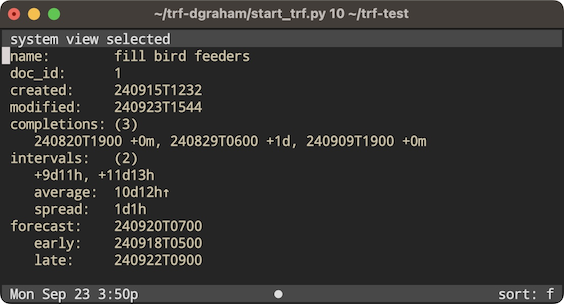
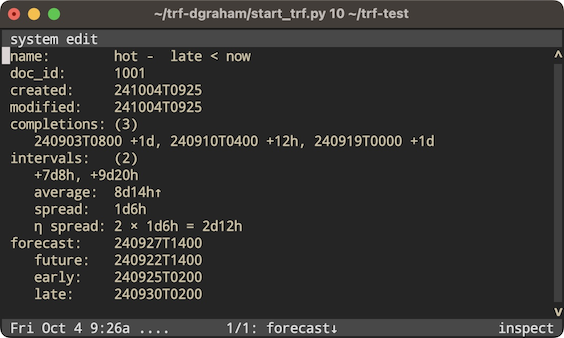
README tweaks. Streamlined style. Added details to inspect view regarding forecast and the related periods. Added illustrative_trakcers.

Changed region(s): [[0.0, 0.0, 1.0, 1.0], [0.9947, 0.0, 1.0, 0.0296]]

diff --git a/trf/trf.py b/trf/trf.py
@@ -186,13 +186,25 @@ settings_map = CommentedMap({
     'ampm': True,
     'yearfirst': True,
     'dayfirst': False,
-    'η': 2
+    'η': 2,
 })
 # Add comments to the dictionary
-settings_map.yaml_set_comment_before_after_key('ampm', before='Track Settings\n\n[ampm] Display 12-hour times with AM or PM if true, \notherwise display 24-hour times')
-settings_map.yaml_set_comment_before_after_key('yearfirst', before='\n[yearfirst] When parsing ambiguous dates, assume the year is first if true, \notherwise assume the month is first')
-settings_map.yaml_set_comment_before_after_key('dayfirst', before='\n[dayfirst] When parsing ambiguous dates, assume the day is first if true, \notherwise assume the month is first')
-settings_map.yaml_set_comment_before_after_key('η', before='\n[η] Use this integer multiple of "spread" for setting the early-to-late \nforecast confidence interval')
+settings_map.yaml_set_comment_before_after_key(
+    'ampm',
+    before='trf settings\n\n[ampm] Display 12-hour times with AM or PM if true, \notherwise display 24-hour times'
+    )
+settings_map.yaml_set_comment_before_after_key(
+    'yearfirst',
+    before='\n[yearfirst] When parsing ambiguous dates, assume the year is first \nif true, otherwise assume the month is first'
+    )
+settings_map.yaml_set_comment_before_after_key(
+    'dayfirst',
+    before='\n[dayfirst] When parsing ambiguous dates, assume the day is first \nif true, otherwise assume the month is first'
+    )
+settings_map.yaml_set_comment_before_after_key(
+    'η',
+    before='\n[η] Use this integer multiple of "spread" for setting the \nearly-to-late forecast confidence interval'
+    )
 
 
 # this will be set in main() as a global variable
@@ -549,14 +561,15 @@ class Tracker(Persistent):
                     else:
                         total += interval - result['average_interval']
                 result['spread'] = total / result['num_intervals']
+                result['n_spread'] = f"{tracker_manager.settings['η']} × {Tracker.format_td(result['spread'], True)} = {Tracker.format_td(tracker_manager.settings['η']*result['spread'], True)}"
             if result['num_intervals'] >= 1:
-                result['future'] = result['next_expected_completion'] - (tracker_manager.settings['η']*2) * result['spread']
+                result['future']  = result['next_expected_completion'] - (tracker_manager.settings['η']*2) * result['spread']
                 result['early'] = result['next_expected_completion'] - tracker_manager.settings['η'] * result['spread']
                 result['late'] = result['next_expected_completion'] + tracker_manager.settings['η'] * result['spread']
 
         self._info = result
         self._p_changed = True
-        # logger.debug(f"returning {result = }")
+        logger.debug(f"returning {result = }")
 
         return result
 
@@ -697,10 +710,11 @@ class Tracker(Persistent):
     {intervals}
     average:  {self._info['avg']}
     spread:   {Tracker.format_td(self._info['spread'], True)}
+    η spread: {self._info.get('n_spread', '?')}
  forecast:    {Tracker.format_dt(self._info['next_expected_completion'])}
-    future:   {Tracker.format_dt(self._info.get('future', '?'))}
-    early:    {Tracker.format_dt(self._info.get('early', '?'))}
-    late:     {Tracker.format_dt(self._info.get('late', '?'))}
+    future:   forecast - 2 × η spread = {Tracker.format_dt(self._info.get('future', '?'))}
+    early:    forecast - η spread     = {Tracker.format_dt(self._info.get('early', '?'))}
+    late:     forecast + η spread     = {Tracker.format_dt(self._info.get('late', '?'))}
 """, 0)
 
 def page_banner(active_page_num: int, number_of_pages: int, sort_by: str):
@@ -871,7 +885,7 @@ class TrackerManager:
         return sorted(trackers, key=self.sort_key, reverse=reverse)
 
     def list_trackers(self):
-        name_width = shutil.get_terminal_size()[0] - 30
+        name_width = shutil.get_terminal_size()[0] - 40
         self.num_pages = (len(self.trackers) + 25) // 26
 
         sort = self.sort_by + UP if self.sort_by == 'modified' else self.sort_by + DOWN
@@ -917,6 +931,7 @@ class TrackerManager:
             self.tag_to_row[(self.active_page, tag)] = (self.active_page, count+1) # count+1
             count += 1
             # rows.append(f" {tag}{" "*4}{forecast}{" "*2}{latest}{" "*2}{interval}{" " * 3}{tracker_name}")
+            #             1  1    4         8      2       8       2      8       3
             rows.append(f" {tag}{" "*4}{forecast}{" "*2}{spread}{" "*2}{latest}{" " * 3}{tracker_name}")
         if self.selected_id:
             self.selected_row = self.id_to_row[self.selected_id]
@@ -1214,39 +1229,23 @@ class TrackerLexer(Lexer):
                     if now < future:
                         # logger.debug("future")
                         this_style = list_style.get('next-future', '')
-                        next_style = this_style
-                        last_style = this_style
-                        spread_style = this_style
-                        name_style = this_style
-                    if now >= future and now < alert:
+                    if future <= now and now < alert:
                         # logger.debug("fine")
-                        next_style = list_style.get('next-fine', '')
-                        next_style = list_style.get('next-fine', '')
-                        last_style = list_style.get('next-fine', '')
-                        spread_style = list_style.get('next-fine', '')
-                        name_style = list_style.get('next-fine', '')
-                    elif now >= alert and now < warn:
+                        this_style = list_style.get('next-fine', '')
+                    elif alert <= now and now < warn:
                         # logger.debug("alert")
-                        next_style = list_style.get('next-alert', '')
-                        last_style = list_style.get('next-alert', '')
-                        spread_style = list_style.get('next-alert', '')
-                        name_style = list_style.get('next-alert', '')
-                    elif now >= warn:
+                        this_style = list_style.get('next-alert', '')
+                    elif warn <= now:
                         # logger.debug("warn")
-                        next_style = list_style.get('next-warn', '')
-                        last_style = list_style.get('next-warn', '')
-                        spread_style = list_style.get('next-warn', '')
-                        name_style = list_style.get('next-warn', '')
+                        this_style = list_style.get('next-warn', '')
                 elif next_date != "~" and next_date > now:
-                    next_style = list_style.get('next-fine', '')
-                    last_style = list_style.get('next-fine', '')
-                    spread_style = list_style.get('next-fine', '')
-                    name_style = list_style.get('next-fine', '')
+                    this_style = list_style.get('next-fine', '')
                 else:
-                    next_style = list_style.get('default', '')
-                    last_style = list_style.get('default', '')
-                    spread_style = list_style.get('default', '')
-                    name_style = list_style.get('default', '')
+                    this_style = list_style.get('default', '')
+                next_style = this_style
+                last_style = this_style
+                spread_style = this_style
+                name_style = this_style
 
                 # Format each part with fixed width
                 tag_formatted = f"  {tag:<5}"          # 7 spaces for tag
@@ -1511,7 +1510,7 @@ def clear_search(*event):
     search_state = get_app().current_search_state
     text = search_state.text
     search_state.text = ''
-    cancel(event)
+    # cancel(event)
 
 def clear_info(*event):
     set_mode('main')
@@ -1636,7 +1635,7 @@ def cancel(event=None):
 
 def settings(event=None):
     set_mode('settings')
-    message_control.text = " Edit settings. \nPress 'enter' to save changes or '^c' to cancel"
+    message_control.text = "Editing settings. \nPress 'ctrl-s' to save changes or 'escape' to cancel"
     settings_map = tracker_manager.settings
     yaml_string = StringIO()
     # Step 2: Dump the CommentedMap into the StringIO object
@@ -2021,7 +2020,7 @@ def add_example_trackers(*event):
     import random
     today = datetime.now().replace(microsecond=0,second=0,minute=0,hour=0)
     for i in range(1,49): # create 48 trackers
-        name = f"# {lm.sentence()[:-1]}"
+        name = f"{lm.sentence()[:-1]}"
         doc_id = 1000 + i # make sure id's don't conflict with existing trackers
         tracker = Tracker(name, doc_id)
         # Add the tracker to the trackers dictionary
@@ -2051,11 +2050,60 @@ def add_example_trackers(*event):
         tracker_manager.trackers[doc_id].compute_info()
     list_trackers()
 
+
+@kb.add('c-i')
+def add_illustrative_trackers(*event):
+    del_example_trackers()
+    import random
+    today = datetime.now().replace(microsecond=0,second=0,minute=0,hour=0)
+    names = { # name -> [forecast days + (before) or - (after) today, num completions]
+        'hot -  late < now': [14, 3],
+        'warm - early < now < late': [7, 3],
+        'cool - future < now < early': [0, 3],
+        'cold - now < future': [-7, 3],
+        'just two completions': [-7, 2],
+        'only one completion': [0, 1],
+        'no completions': [0, 0]
+        }
+    doc_id = 1000
+    for name in names.keys(): # create 6 trackers
+        doc_id += 1
+        tracker = Tracker(name, doc_id)
+        # Add the tracker to the trackers dictionary
+        tracker_manager.trackers[doc_id] = tracker
+        days, completions = names[name]
+        # intervals
+        due = today - timedelta(days=days)
+        avg = timedelta(days=random.choice([6, 7]), hours=random.choice([8, 12, 16, 20]))
+        mad = timedelta(days = 1, hours = random.choice([4, 8, 12]))
+        if completions == 3:
+            completions = [due-2*avg, due-avg-mad, due]
+        elif completions == 2:
+            completions = [due-avg-mad, due]
+        elif completions == 1:
+            completions = [due]
+        else:
+            completions = []
+
+        for comp in completions:
+            hours = random.choice([0, 0, 0, 0, 0, 0, 12, 24, 36])
+            sign = random.choice([-1, 1])
+            if hours != 0:
+                orig_comp = comp
+                comp = (comp + timedelta(hours=hours), -timedelta(hours=hours)) if sign == 1 else (comp - timedelta(hours=hours), timedelta(hours=hours))
+                logger.debug(f"comp: {comp}; orig_comp: {orig_comp}; sign: {sign}; hours: {hours}")
+            tracker_manager.trackers[doc_id].record_completion(comp)
+        tracker_manager.save_data()
+        tracker_manager.trackers[doc_id].compute_info()
+    list_trackers()
+
+
 @kb.add('c-r')
 def del_example_trackers(*event):
     remove = []
     for id, tracker in tracker_manager.trackers.items():
-        if tracker.name.startswith('#'):
+        # if tracker.name.startswith('#'):
+        if tracker.doc_id >= 1000:
             remove.append(id)
     for id in remove:
         tracker_manager.delete_tracker(id)

diff --git a/trf/readme.py b/trf/readme.py
@@ -44,12 +44,12 @@ The `spread` is the average of the absolute values of the differences between th
         early = forecast - η × spread
         late = forecast + η × spread
 
-where, by default, `η = 2`. With these settings at least 75% of the intervals would put the actual outcome between `early` and `late`. For the bird feeder example:
+where the value of η is set by the user. With `η = 3`, e.g., at least 1-1/3^2 ~= 89% of the intervals would put the actual outcome between `early` and `late`. For the bird feeder example:
 
         early = 240920T0700 - 2 × 1d1h = 240918T0500
         late = 240920T0700 + 2 × 1d1h = 240922T0900
 
-The list view reflects theses calculations:
+The list view reflects these calculations:
 
 {list}
 
@@ -176,6 +176,7 @@ As a final illustration, if you press `i` to inspect a tracker when the cursor i
 
 """
 
+fp = '👣'
 
 # Define replacements for image links or text alternatives
 image_replacements = {
@@ -196,32 +197,41 @@ image_replacements = {
 
 text_replacements = {
     "tracker": """\
-## trf-dgraham
-### tracker - record and forecast
-This is a simple application for tracking the sequence of occasions on which a task is completed and predicting when the next completion will likely be needed.
+                                           +---------------------+
+ trf-dgraham                               |           👣        |
+ tracker - record and forecast             |          👣         |
+ This is a simple application for tracking |            👣       |
+ the sequence of occasions on which a task |              👣     |
+ is completed and predicting when the next |             👣      |
+ completion will likely be needed.         |           👣        |
+                                           +---------------------+
         """,
     "inspect": """\
-    name:        fill bird feeders
-    doc_id:      1
-    created:     240915T1232
-    modified:    240923T1544
-    completions: (3)
-       240820T1900 +0m, 240829T0600 +1d, 240909T1900 +0m
-    intervals:   (2)
-       +9d11h, +11d13h
-       average:  10d12h↑
-       spread:   1d1h
-    forecast:    240920T0700
-       early:    240918T0500
-       late:     240922T0900
++----------------------------------------------------------------+
+|   name:        fill bird feeders                               |
+|   doc_id:      1                                               |
+|   created:     240915T1232                                     |
+|   modified:    240923T1544                                     |
+|   completions: (3)                                             |
+|      240820T1900 +0m, 240829T0600 +1d, 240909T1900 +0m         |
+|   intervals:   (2)                                             |
+|      +9d11h, +11d13h                                           |
+|      average:  10d12h↑                                         |
+|      spread:   1d1h                                            |
+|   forecast:    240920T0700                                     |
+|      early:    240918T0500                                     |
+|      late:     240922T0900                                     |
++----------------------------------------------------------------+
 """,
     "list": """\
-     tag   forecast  η spread   latest    name
-      a    24-09-20   2d2h     24-09-09   fill bird feeders
-      b    24-09-23   1d2h     24-09-13   between early and late
-      c    24-09-29   1d2h     24-09-19   before early
-      d       ~         ~      24-09-12   only one completion
-      e       ~         ~         ~       no completions yet
++----------------------------------------------------------------+
+|  tag   forecast  η spread   latest    name                     |
+|   a    24-09-20   2d2h     24-09-09   fill bird feeders        |
+|   b    24-09-23   1d2h     24-09-13   between early and late   |
+|   c    24-09-29   1d2h     24-09-19   before early             |
+|   d       ~         ~      24-09-12   only one completion      |
+|   e       ~         ~         ~       no completions yet       |
++----------------------------------------------------------------+
 """
 }
 
